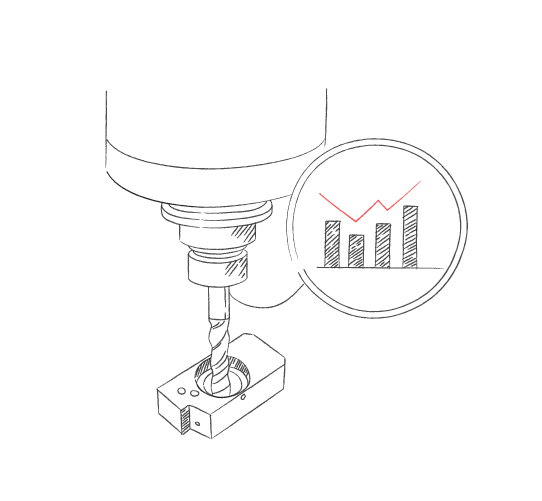
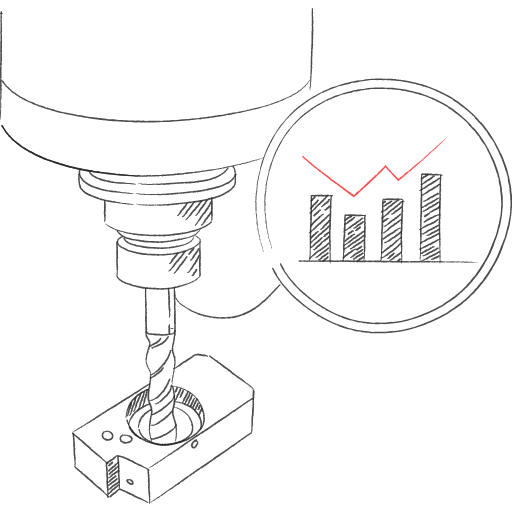
deploy: 6ec59728a4f1dce25be89e115700629e8414c480

diff --git a/lt/index.html b/lt/index.html
@@ -5,7 +5,7 @@
 
 
 <head>
-	<meta name="generator" content="Hugo 0.94.2" />
+	<meta name="generator" content="Hugo 0.95.0" />
     <meta charset="utf-8">
     <meta name="viewport" content="initial-scale=1, width=device-width">
     <meta http-equiv="X-UA-Compatible" content="ie=edge">
@@ -95,18 +95,18 @@ mes pasirūpinsime jūsų vizijos prototipų sukūrimu.
                     <figcaption>
                         <p class="topic">Apribojimų programavimas</p>
                         <p class="client">Strato.homes</p>
-                        <p class="description">Modulinių namų planavimas</p>
+                        <p class="description">Išmanus namų planavimas</p>
                     </figcaption>
                 </figure>
             </a>
             
             <a href="cases/turimeda">
                 <figure>
-                    <img src="https://threethirds.ai/icons/aorta.png" alt="Medicininių vaizdų analizė">
+                    <img src="https://threethirds.ai/icons/turimeda.png" alt="Medicininių vaizdų analizė">
                     <figcaption>
                         <p class="topic">Medicininių vaizdų analizė</p>
                         <p class="client">Turimeda</p>
-                        <p class="description">Aortos aneurizmos matavimas KT vaizduose</p>
+                        <p class="description">3D kraujagyslių rekonstrukcija</p>
                     </figcaption>
                 </figure>
             </a>
@@ -133,7 +133,7 @@ su Jūsų komanda.
                     <figcaption>
                         <p class="topic">3D vaizdų analizė</p>
                         <p class="client">Rubedos</p>
-                        <p class="description">Palečių aptikimo sistema</p>
+                        <p class="description">Krovinių aptikimas vaizdo sraute autonominiams keltuvams</p>
                     </figcaption>
                 </figure>
             </a>
@@ -144,7 +144,7 @@ su Jūsų komanda.
                     <figcaption>
                         <p class="topic">Optimali kontrolė</p>
                         <p class="client">FlexBlow</p>
-                        <p class="description">Realaus laiko butelių pūtimo kontrolės sistema</p>
+                        <p class="description">Realaus laiko butelių kokybės kontrolė</p>
                     </figcaption>
                 </figure>
             </a>
@@ -166,9 +166,9 @@ su Jūsų komanda.
             
             <a href="cases/girteka">
                 <figure>
-                    <img src="https://threethirds.ai/icons/bct.png" alt="Priežastinė analizė">
+                    <img src="https://threethirds.ai/icons/bct.png" alt="Priežastinė laiko eilučių analizė">
                     <figcaption>
-                        <p class="topic">Priežastinė analizė</p>
+                        <p class="topic">Priežastinė laiko eilučių analizė</p>
                         <p class="client">Girteka</p>
                         <p class="description">Proceso pokyčių įtakos matavimas</p>
                     </figcaption>

diff --git a/index.html b/index.html
@@ -5,7 +5,7 @@
 
 
 <head>
-	<meta name="generator" content="Hugo 0.94.2" />
+	<meta name="generator" content="Hugo 0.95.0" />
     <meta charset="utf-8">
     <meta name="viewport" content="initial-scale=1, width=device-width">
     <meta http-equiv="X-UA-Compatible" content="ie=edge">
@@ -95,18 +95,18 @@ customers and we&#39;ll take care of building top-notch prototypes and MVPs of y
                     <figcaption>
                         <p class="topic">Constraint Optimization</p>
                         <p class="client">Strato.homes</p>
-                        <p class="description">Modular house planning</p>
+                        <p class="description">Intelligent floor plan design</p>
                     </figcaption>
                 </figure>
             </a>
             
             <a href="cases/turimeda">
                 <figure>
-                    <img src="https://threethirds.ai/icons/aorta.png" alt="Medical Image Analysis">
+                    <img src="https://threethirds.ai/icons/turimeda.png" alt="Medical Image Analysis">
                     <figcaption>
                         <p class="topic">Medical Image Analysis</p>
                         <p class="client">Turimeda</p>
-                        <p class="description">Aortic aneurysm quantification from CT scans</p>
+                        <p class="description">3D blood vessel reconstruction</p>
                     </figcaption>
                 </figure>
             </a>
@@ -133,7 +133,7 @@ your team.
                     <figcaption>
                         <p class="topic">3D Image Analysis</p>
                         <p class="client">Rubedos</p>
-                        <p class="description">Pallet detection system</p>
+                        <p class="description">Payload localization from video for autonomous forklifts</p>
                     </figcaption>
                 </figure>
             </a>
@@ -144,7 +144,7 @@ your team.
                     <figcaption>
                         <p class="topic">Optimal Control</p>
                         <p class="client">FlexBlow</p>
-                        <p class="description">Real-time bottle blowing control system</p>
+                        <p class="description">Real-time bottle quality control</p>
                     </figcaption>
                 </figure>
             </a>
@@ -168,9 +168,9 @@ address your needs.
             
             <a href="cases/girteka">
                 <figure>
-                    <img src="https://threethirds.ai/icons/bct.png" alt="Causal Analysis">
+                    <img src="https://threethirds.ai/icons/girteka.png" alt="Causal Time Series Analysis">
                     <figcaption>
-                        <p class="topic">Causal Analysis</p>
+                        <p class="topic">Causal Time Series Analysis</p>
                         <p class="client">Girteka</p>
                         <p class="description">Operational change impact measurement</p>
                     </figcaption>

diff --git a/css/style.css b/css/style.css
@@ -446,11 +446,12 @@ section.services figure {
     text-align: center;
 }
 
-section.services li img {
-    height: 660px;
+section.services img {
+    padding: 30px 30px;
 }
 
 section.services figcaption {
+    max-width: 300px;
     font-size: 17px;
     font-weight: 700;
     color: black;
